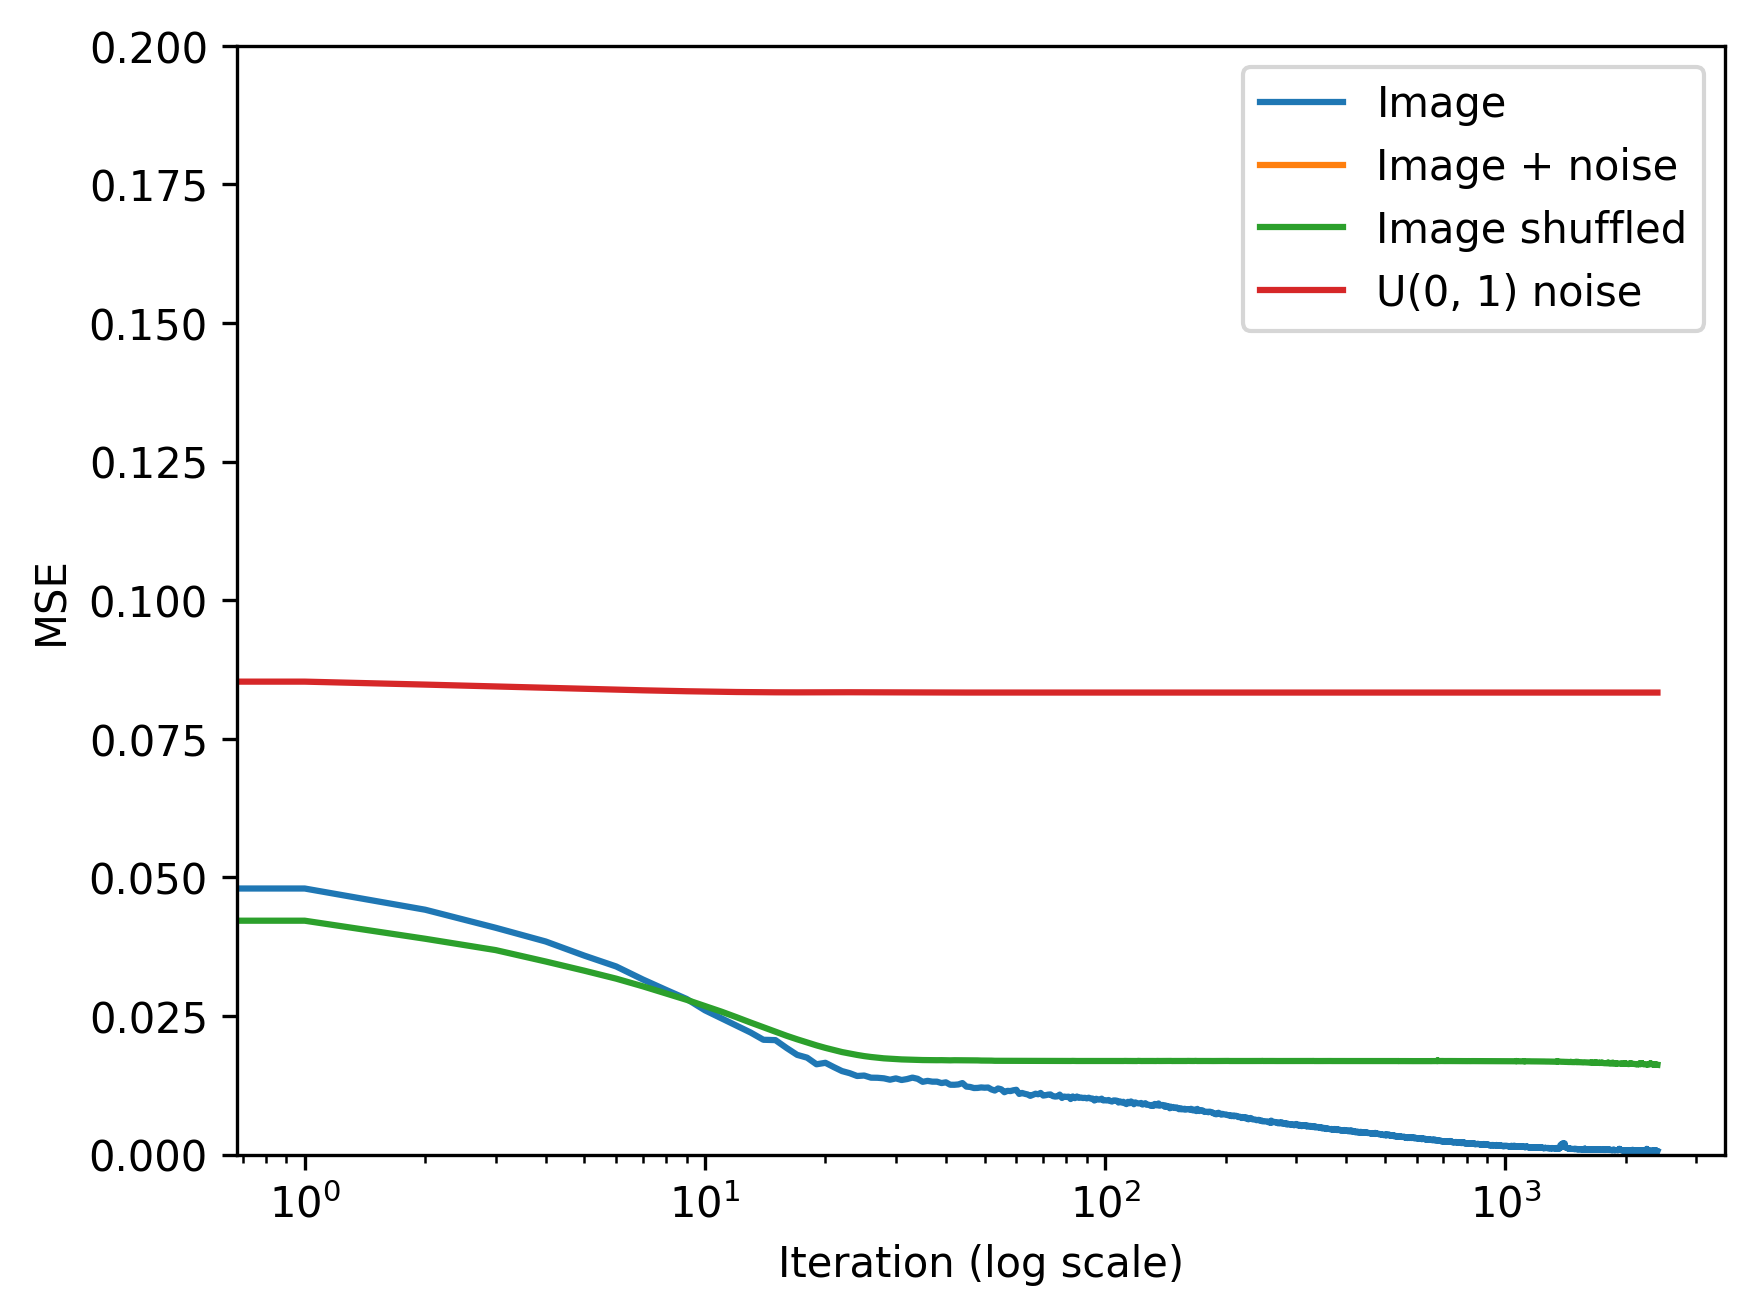
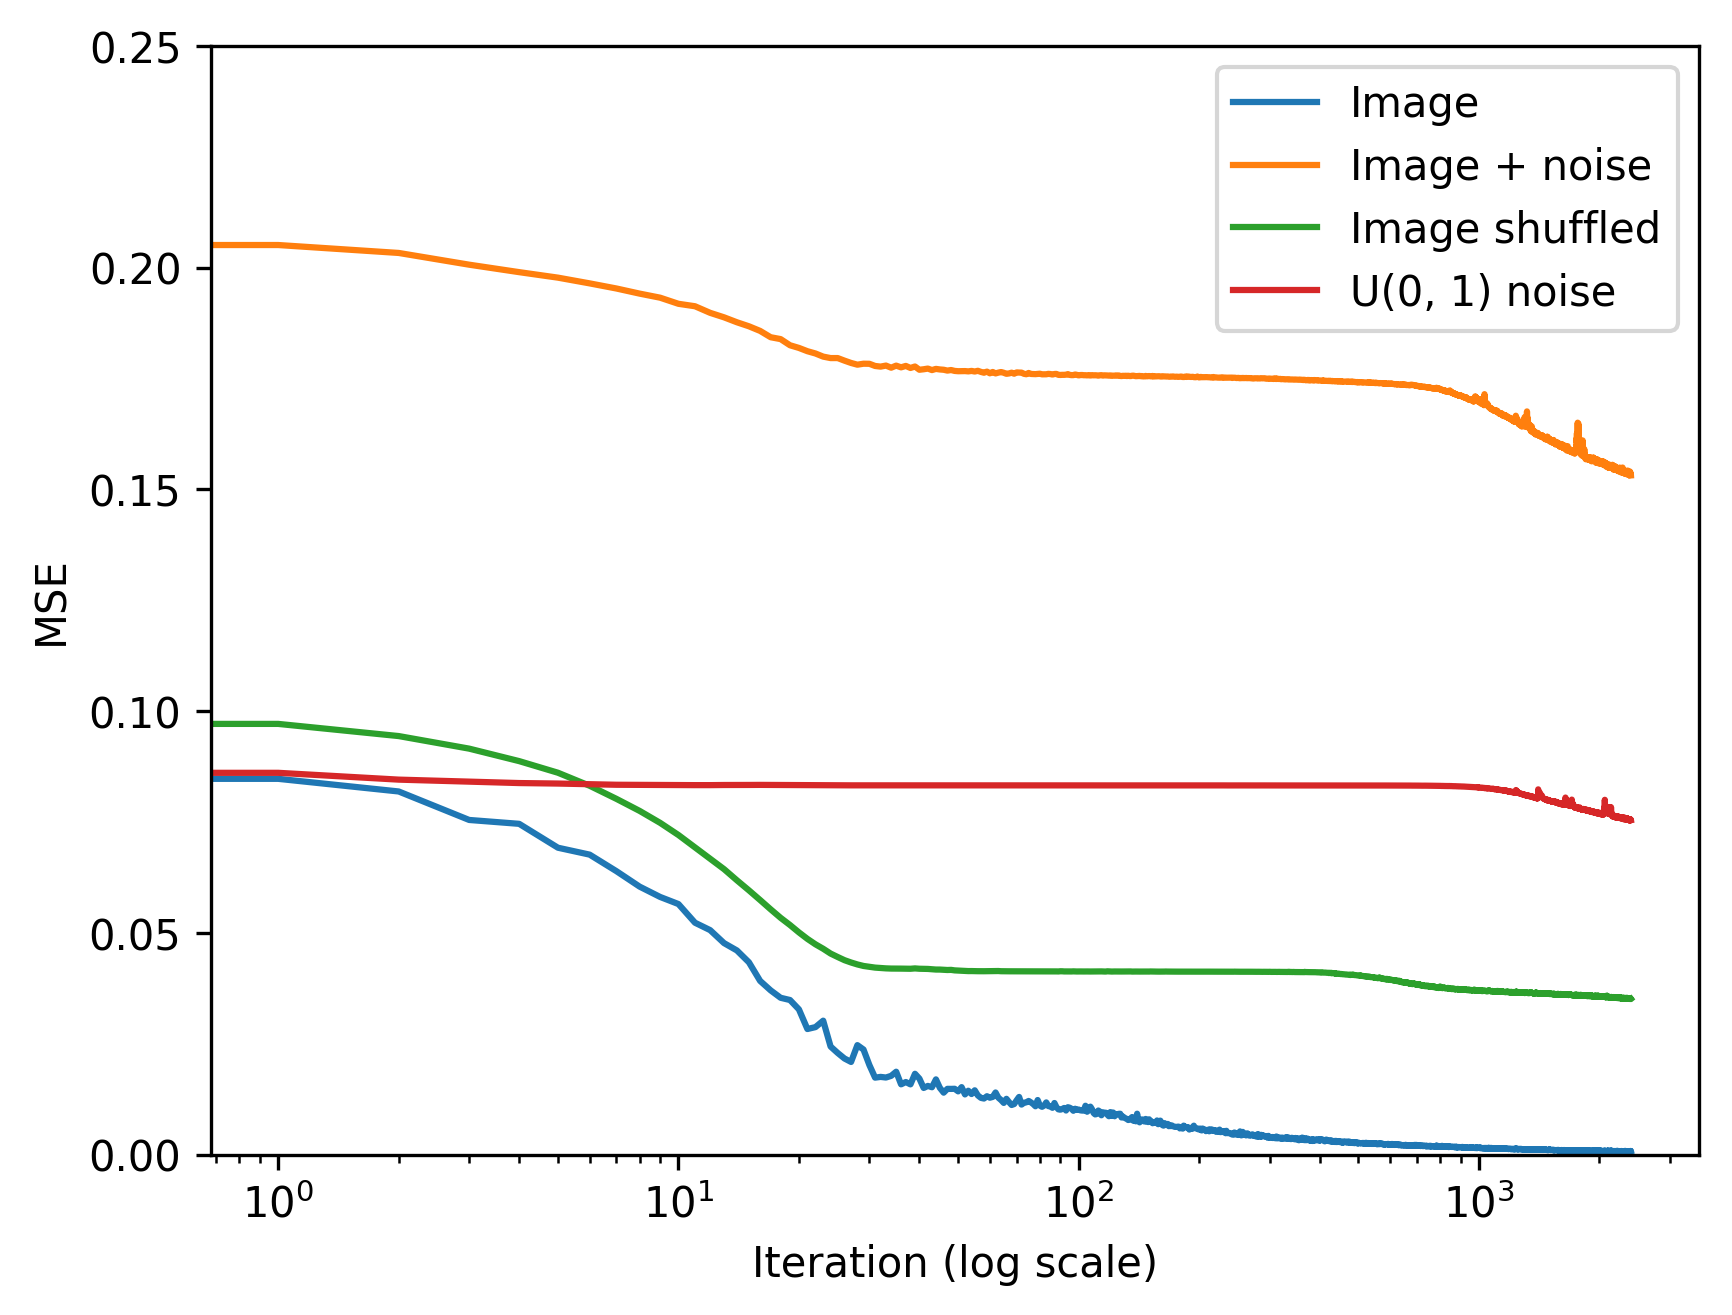
req1 completed

diff --git a/Lab2-DeepImagePrior/plot.py b/Lab2-DeepImagePrior/plot.py
@@ -3,10 +3,10 @@ import numpy as np
 import csv
 
 # training loss
-mse_1 = open('./output/outi1.csv', 'r')
-mse_2 = open('./output/2nd-out2.csv', 'r')
-mse_3 = open('./output/2nd-out3.csv', 'r')
-mse_4 = open('./output/outi4.csv', 'r')
+mse_1 = open('./output/3rd-out1.csv', 'r')
+mse_2 = open('./output/3rd-out2.csv', 'r')
+mse_3 = open('./output/3rd-out3.csv', 'r')
+mse_4 = open('./output/3rd-out4.csv', 'r')
 
 def read_table(file):
     dta = []
@@ -32,7 +32,7 @@ plt.plot(range(2400), mse_2_dta, label="Image + noise")
 plt.plot(range(2400), mse_3_dta, label="Image shuffled")
 plt.plot(range(2400), mse_4_dta, label="U(0, 1) noise")
 plt.legend()
-plt.ylim([0., .2])
+plt.ylim([0., .25])
 plt.xlabel("Iteration (log scale)")
 plt.xscale("log")
 plt.ylabel('MSE')
